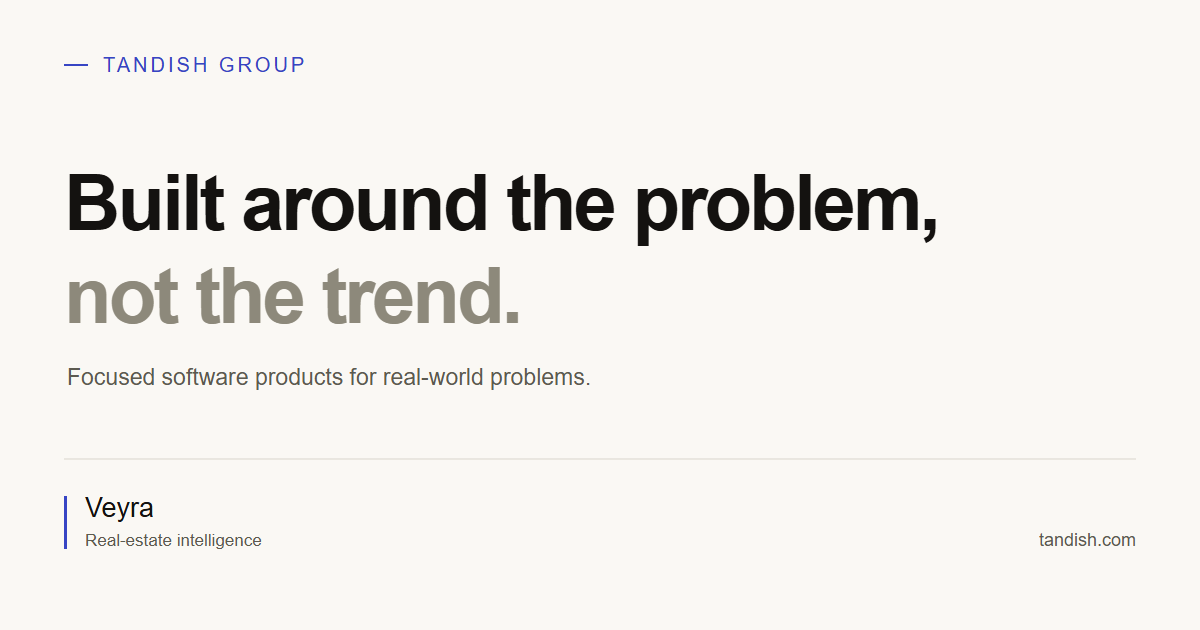
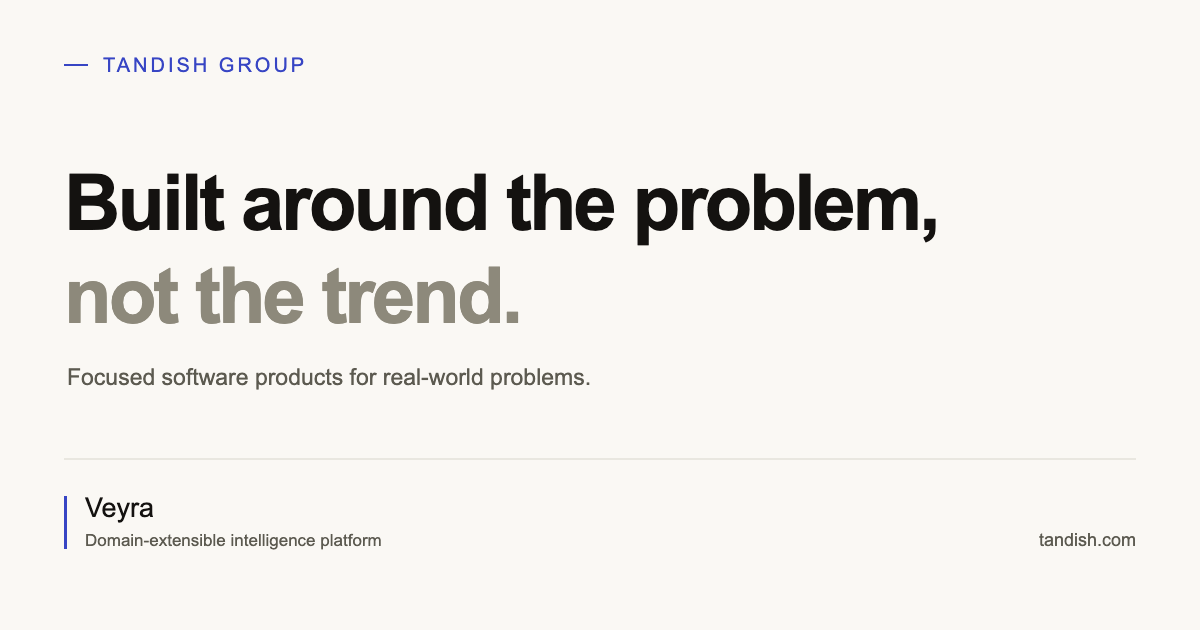
Updated SEO across both pages to describe Veyra as a **self-hosted, domain-extensible intelligence platform**, with Real Estate as its first production Domain.
Aligned search descriptions, social previews, structured data, and the sitemap. Saved locally; validation passed.

diff --git a/index.html b/index.html
@@ -18,7 +18,7 @@
   } catch (_) {}
 </script>
 <title>Tandish | Focused Software Products for Complex Industries</title>
-<meta name="description" content="Tandish builds focused software products for complex industries and everyday life. Veyra is our domain-extensible intelligence platform, with Real Estate as its first production Domain.">
+<meta name="description" content="Tandish builds purposeful software for complex industries and everyday life, including Veyra, our self-hosted, domain-extensible intelligence platform.">
 <meta name="author" content="Tandish Group">
 <meta name="robots" content="index, follow, max-image-preview:large">
 <meta name="theme-color" content="#08090C" media="(prefers-color-scheme: dark)">
@@ -35,9 +35,9 @@
 <meta property="og:type" content="website">
 <meta property="og:site_name" content="Tandish">
 <meta property="og:title" content="Tandish | Focused Software Products for Complex Industries">
-<meta property="og:description" content="Tandish builds focused software products for complex industries and everyday life. Veyra is our domain-extensible intelligence platform, with Real Estate as its first production Domain.">
+<meta property="og:description" content="Tandish builds purposeful software for complex industries and everyday life, including Veyra, our self-hosted, domain-extensible intelligence platform.">
 <meta property="og:url" content="https://tandish.com/">
-<meta property="og:image" content="https://tandish.com/assets/images/tandish-og.png?v=2">
+<meta property="og:image" content="https://tandish.com/assets/images/tandish-og.png?v=3">
 <meta property="og:image:type" content="image/png">
 <meta property="og:image:width" content="1200">
 <meta property="og:image:height" content="630">
@@ -47,8 +47,8 @@
 <meta name="twitter:card" content="summary_large_image">
 <meta name="twitter:site" content="@tandish">
 <meta name="twitter:title" content="Tandish | Focused Software Products for Complex Industries">
-<meta name="twitter:description" content="Tandish builds focused software products for complex industries and everyday life. Veyra is our domain-extensible intelligence platform, with Real Estate as its first production Domain.">
-<meta name="twitter:image" content="https://tandish.com/assets/images/tandish-og.png?v=2">
+<meta name="twitter:description" content="Tandish builds purposeful software for complex industries and everyday life, including Veyra, our self-hosted, domain-extensible intelligence platform.">
+<meta name="twitter:image" content="https://tandish.com/assets/images/tandish-og.png?v=3">
 <meta name="twitter:image:alt" content="Tandish Group. Built around the problem, not the trend. Focused software products for real-world problems.">
 
 <link rel="preload" href="assets/fonts/space-grotesk-latin.woff2" as="font" type="font/woff2" crossorigin>
@@ -69,7 +69,7 @@
   "publisher": {
     "@id": "https://tandish.com/#organization"
   },
-  "description": "Tandish builds focused software products for complex industries and everyday life. Veyra is our domain-extensible intelligence platform, with Real Estate as its first production Domain."
+  "description": "Tandish builds purposeful software for complex industries and everyday life, including Veyra, our self-hosted, domain-extensible intelligence platform."
 }
 </script>
 <script type="application/ld+json">
@@ -81,7 +81,7 @@
   "alternateName": "Tandish",
   "url": "https://tandish.com/",
   "email": "hello@tandish.com",
-  "description": "Tandish builds focused software products for complex industries and everyday life. Veyra is a self-hosted intelligence platform specialized through industry Domains; Real Estate is its first production Domain. Saelis is an upcoming social discovery app.",
+  "description": "Tandish builds focused software products for complex industries and everyday life. Veyra is our self-hosted, domain-extensible intelligence platform, with Real Estate as its first production Domain. Saelis is an upcoming social discovery app.",
   "sameAs": [
     "https://x.com/tandish",
     "https://www.facebook.com/tandishgroup/",
@@ -124,7 +124,7 @@
       }
     }
   ],
-  "description": "Tandish builds focused software products for complex industries and everyday life. Veyra is our domain-extensible intelligence platform, with Real Estate as its first production Domain."
+  "description": "Tandish builds purposeful software for complex industries and everyday life, including Veyra, our self-hosted, domain-extensible intelligence platform."
 }
 </script>
 
@@ -136,10 +136,20 @@
   "name": "Veyra",
   "url": "https://tandish.com/veyra/",
   "applicationCategory": "BusinessApplication",
-  "description": "Tandish’s self-hosted, domain-extensible intelligence platform. Real Estate is the first and only production Domain today. Capabilities depend on the enabled Domain, commercial agreement and configuration.",
+  "description": "Veyra is Tandish’s self-hosted, domain-extensible intelligence platform. Shared search, recommendations and predictive intelligence are specialized through industry Domains. Real Estate is the first and only production Domain today; other Domains require development and validation. Capability availability depends on the enabled Domain, configuration and commercial agreement.",
   "publisher": {
     "@id": "https://tandish.com/#organization"
-  }
+  },
+  "featureList": [
+    "Self-hosted intelligence in customer-controlled infrastructure",
+    "Search through an enabled industry Domain",
+    "Domain-aware recommendations",
+    "Predictive intelligence through Domain-specific models",
+    "Advanced Intelligence where enabled by the Domain and commercial configuration",
+    "Extensible industry Domain architecture",
+    "Local API integration",
+    "First production Domain: Real Estate, with property search, recommendations and Price Intelligence"
+  ]
 }
 </script>
 <link rel="stylesheet" href="assets/css/tandish-company.css?v=1">
@@ -174,9 +184,9 @@
 <a class="product-window window-veyra" href="/veyra/" data-open-product>
 <div class="window-label"><span><b id="card-veyra-title">Veyra</b> / Intelligence platform</span><span class="status">Production · Real Estate</span></div>
 <div class="gallery-positioning"><h3>One intelligence platform.<br>Specialized by Domain.</h3><p>Shared capabilities. Industry-specific understanding.<br>Running in infrastructure you control.</p></div>
-<div class="portfolio-visual veyra-preview"><div class="preview-model"><span>Veyra <small>Intelligence platform</small></span><i aria-hidden="true">↓</i><span>Capabilities <small>Search · Recommendations · Price Intelligence</small></span><i aria-hidden="true">↓</i><span>Domains <small>Industry data, terminology &amp; workflows</small></span></div><div class="preview-property"><div class="building-art" aria-hidden="true"><i></i><i></i><i></i><i></i><i></i><i></i></div><div><span class="mini-label">FIRST PRODUCTION DOMAIN</span><strong>Real Estate</strong><span>Property intelligence in practice.</span></div></div></div>
+<div class="portfolio-visual veyra-preview"><div class="preview-model"><span>Veyra <small>Intelligence platform</small></span><i aria-hidden="true">↓</i><span>Capabilities <small>Search · Recommendations · Predictive Intelligence</small></span><i aria-hidden="true">↓</i><span>Domains <small>Industry data, terminology &amp; workflows</small></span></div><div class="preview-property"><div class="building-art" aria-hidden="true"><i></i><i></i><i></i><i></i><i></i><i></i></div><div><span class="mini-label">FIRST PRODUCTION DOMAIN</span><strong>Real Estate</strong><span>Property intelligence in practice.</span></div></div></div>
 <div class="window-footer"><span data-card-action>Explore Veyra</span><span class="circle-arrow" aria-hidden="true">↗</span></div></a>
-<details class="product-fallback" data-product-detail><summary>More about Veyra</summary><div class="product-detail-body"><p class="eyebrow">Veyra / Domain-extensible intelligence platform</p><h2 data-detail-title>One intelligence platform.<br>Specialized by Domain.</h2><p class="detail-description">Veyra is Tandish’s self-hosted intelligence platform. Shared capabilities become industry-specific through Domains, so your applications work with the language and structure of your data.</p><dl class="detail-model"><div><dt>01 / Platform</dt><dd>Shared intelligence infrastructure in your environment.</dd></div><div><dt>02 / Capabilities</dt><dd>Search, Recommendations, Price Intelligence and Advanced Intelligence where enabled.</dd></div><div><dt>03 / Domains</dt><dd>Industry-specific data, terminology, constraints, relationships and workflows.</dd></div><div><dt>04 / In production</dt><dd><strong>Real Estate.</strong> The first and only production Domain today.</dd></div></dl><div class="detail-preview"><p class="mini-label">REAL ESTATE / ILLUSTRATIVE WORKFLOW</p><blockquote>“Three bedrooms, a garden,<br>and room to grow.”</blockquote><div class="detail-flow"><span>Describe</span><i aria-hidden="true">→</i><span>Understand</span><i aria-hidden="true">→</i><span>Discover</span></div><p>The Real Estate Domain demonstrates Search, Recommendations and Price Intelligence using property context.</p></div><p class="detail-note">Capability scope follows the enabled Domain and commercial agreement. Additional Domains require development and validation.</p><a class="button button-primary" href="/veyra/">Explore Veyra <span aria-hidden="true">↗</span></a></div></details>
+<details class="product-fallback" data-product-detail><summary>More about Veyra</summary><div class="product-detail-body"><p class="eyebrow">Veyra / Domain-extensible intelligence platform</p><h2 data-detail-title>One intelligence platform.<br>Specialized by Domain.</h2><p class="detail-description">Veyra is Tandish’s self-hosted intelligence platform. Shared capabilities become industry-specific through Domains, so your applications work with the language and structure of your data.</p><dl class="detail-model"><div><dt>01 / Platform</dt><dd>Shared intelligence infrastructure in your environment.</dd></div><div><dt>02 / Capabilities</dt><dd>Search, Recommendations, Predictive Intelligence and Advanced Intelligence where enabled.</dd></div><div><dt>03 / Domains</dt><dd>Industry-specific data, terminology, constraints, relationships and workflows.</dd></div><div><dt>04 / In production</dt><dd><strong>Real Estate.</strong> The first and only production Domain today.</dd></div></dl><div class="detail-preview"><p class="mini-label">REAL ESTATE / ILLUSTRATIVE WORKFLOW</p><blockquote>“Three bedrooms, a garden,<br>and room to grow.”</blockquote><div class="detail-flow"><span>Describe</span><i aria-hidden="true">→</i><span>Understand</span><i aria-hidden="true">→</i><span>Discover</span></div><p>The Real Estate Domain demonstrates Search, Recommendations and Price Intelligence using property context.</p></div><p class="detail-note">Capability scope follows the enabled Domain and commercial agreement. Additional Domains require development and validation.</p><a class="button button-primary" href="/veyra/">Explore Veyra <span aria-hidden="true">↗</span></a></div></details>
 </article>
 <article class="gallery-product" id="product-saelis" data-product="saelis" data-product-name="Saelis" data-product-tone="green" aria-labelledby="card-saelis-title">
 <a class="product-window window-saelis" href="mailto:hello@tandish.com?subject=Saelis%20enquiry" data-open-product>

diff --git a/veyra/index.html b/veyra/index.html
@@ -18,8 +18,8 @@
     if (localStorage.getItem('veyra-theme') === 'light') document.documentElement.setAttribute('data-theme', 'light');
   } catch (_) {}
 </script>
-<title>Veyra | Domain-Extensible Intelligence Platform by Tandish</title>
-<meta name="description" content="Veyra is a self-hosted, domain-extensible intelligence platform. Real Estate is its first production Domain, with Search, Recommendations and Price Intelligence through an enabled Domain.">
+<title>Veyra | Self-Hosted, Domain-Extensible Intelligence Platform</title>
+<meta name="description" content="Veyra is a self-hosted, domain-extensible intelligence platform for search, recommendations and predictive intelligence in infrastructure you control.">
 <meta name="author" content="Tandish Group">
 <meta name="robots" content="index, follow, max-image-preview:large">
 <meta name="theme-color" content="#08090C" media="(prefers-color-scheme: dark)">
@@ -35,8 +35,8 @@
 
 <meta property="og:type" content="website">
 <meta property="og:site_name" content="Tandish">
-<meta property="og:title" content="Veyra | Domain-Extensible Intelligence Platform by Tandish">
-<meta property="og:description" content="Veyra is a self-hosted, domain-extensible intelligence platform. Real Estate is its first production Domain, with Search, Recommendations and Price Intelligence through an enabled Domain.">
+<meta property="og:title" content="Veyra | Self-Hosted, Domain-Extensible Intelligence Platform">
+<meta property="og:description" content="Veyra is Tandish’s self-hosted, domain-extensible intelligence platform. Shared search, recommendations and predictive intelligence are specialized through industry Domains. Real Estate is the first production Domain.">
 <meta property="og:url" content="https://tandish.com/veyra/">
 <meta property="og:image" content="https://tandish.com/assets/images/veyra-og.png">
 <meta property="og:image:type" content="image/png">
@@ -47,8 +47,8 @@
 
 <meta name="twitter:card" content="summary_large_image">
 <meta name="twitter:site" content="@tandish">
-<meta name="twitter:title" content="Veyra | Domain-Extensible Intelligence Platform by Tandish">
-<meta name="twitter:description" content="Veyra is a self-hosted, domain-extensible intelligence platform. Real Estate is its first production Domain, with Search, Recommendations and Price Intelligence through an enabled Domain.">
+<meta name="twitter:title" content="Veyra | Self-Hosted, Domain-Extensible Intelligence Platform">
+<meta name="twitter:description" content="Veyra is Tandish’s self-hosted, domain-extensible intelligence platform. Shared search, recommendations and predictive intelligence are specialized through industry Domains. Real Estate is the first production Domain.">
 <meta name="twitter:image" content="https://tandish.com/assets/images/veyra-og.png">
 <meta name="twitter:image:alt" content="Veyra by Tandish. A self-hosted intelligence platform specialized through Domains. Real Estate is the first production Domain.">
 
@@ -67,7 +67,7 @@
   "alternateName": "Tandish",
   "url": "https://tandish.com/",
   "email": "hello@tandish.com",
-  "description": "Tandish builds focused software products for complex industries and everyday life. Veyra is our domain-extensible intelligence platform, with Real Estate as its first production Domain.",
+  "description": "Tandish builds focused software products for complex industries and everyday life. Veyra is our self-hosted, domain-extensible intelligence platform, with Real Estate as its first production Domain. Saelis is an upcoming social discovery app.",
   "sameAs": [
     "https://x.com/tandish",
     "https://www.facebook.com/tandishgroup/",
@@ -90,19 +90,16 @@
   "name": "Veyra",
   "url": "https://tandish.com/veyra/",
   "applicationCategory": "BusinessApplication",
-  "description": "Veyra is Tandish’s self-hosted, domain-extensible intelligence platform. Domains add industry-specific understanding to shared intelligence infrastructure. Real Estate is the first and only production Domain today.",
+  "description": "Veyra is Tandish’s self-hosted, domain-extensible intelligence platform. Shared search, recommendations and predictive intelligence are specialized through industry Domains. Real Estate is the first and only production Domain today; other Domains require development and validation. Capability availability depends on the enabled Domain, configuration and commercial agreement.",
   "featureList": [
-    "Semantic property search",
-    "Structured property retrieval",
-    "Constraint-aware property search",
-    "Truthful search outcome classification",
-    "Property recommendations",
-    "Natural-language property querying",
-    "Local intelligence operations",
-    "Real Estate Price Intelligence",
-    "Real Estate Advanced Intelligence",
-    "Industry-specific Domain architecture",
-    "API-first integration"
+    "Self-hosted intelligence in customer-controlled infrastructure",
+    "Search through an enabled industry Domain",
+    "Domain-aware recommendations",
+    "Predictive intelligence through Domain-specific models",
+    "Advanced Intelligence where enabled by the Domain and commercial configuration",
+    "Extensible industry Domain architecture",
+    "Local API integration",
+    "First production Domain: Real Estate, with property search, recommendations and Price Intelligence"
   ],
   "publisher": {
     "@id": "https://tandish.com/#organization"
@@ -122,8 +119,8 @@
   "@type": "WebPage",
   "@id": "https://tandish.com/veyra/#webpage",
   "url": "https://tandish.com/veyra/",
-  "name": "Veyra | Domain-Extensible Intelligence Platform by Tandish",
-  "description": "Veyra is a self-hosted, domain-extensible intelligence platform. Real Estate is its first production Domain.",
+  "name": "Veyra | Self-Hosted, Domain-Extensible Intelligence Platform",
+  "description": "Veyra is a self-hosted, domain-extensible intelligence platform for search, recommendations and predictive intelligence in infrastructure you control.",
   "isPartOf": {
     "@id": "https://tandish.com/#website"
   },
@@ -135,7 +132,8 @@
   }
 }
 </script>
-<script type="application/ld+json">{
+<script type="application/ld+json">
+{
   "@context": "https://schema.org",
   "@type": "FAQPage",
   "@id": "https://tandish.com/veyra/#faq",
@@ -185,7 +183,8 @@
       }
     }
   ]
-}</script>
+}
+</script>
 <link rel="stylesheet" href="../assets/css/fonts.css?v=3">
 <link rel="stylesheet" href="../assets/css/veyra-experience.v1.css?v=28">
 <link rel="stylesheet" href="../assets/css/veyra-story.css?v=6">
